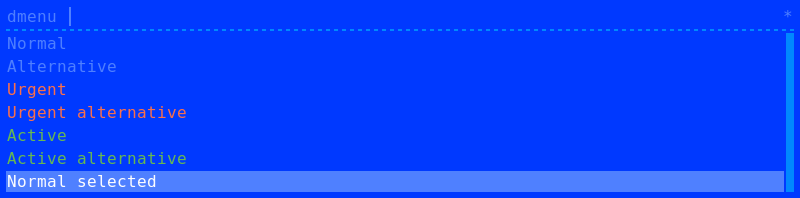
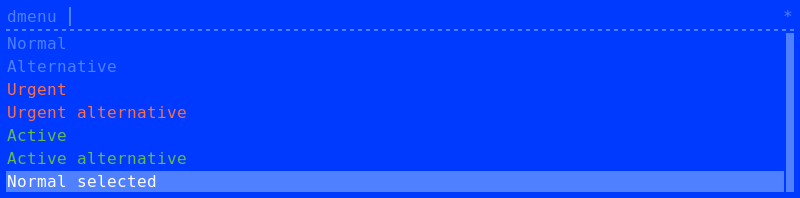
fix scrollbar color

Changed region(s): [[0.9688, 0.1515, 1.0, 0.9697]]

diff --git a/README.md b/README.md
@@ -64,7 +64,7 @@ rofi.color-window:                   argb:ee0060a0, #00b0ef,#00b0ef
 ! ROFI Color theme
 ! ------------------------------------------------------------------------------
 rofi.color-enabled: true
-rofi.color-window: #0039ff, #0039ff, #0088fe
+rofi.color-window: #0039ff, #0039ff, #4F80FF
 rofi.color-normal: #0039ff, #4f80ff, #0039ff, #4f80ff, #ffffff
 rofi.color-active: #0039ff, #68ba50, #0039ff, #4f80ff, #68ba50
 rofi.color-urgent: #0039ff, #ff7047, #0039ff, #4f80ff, #ff7047
